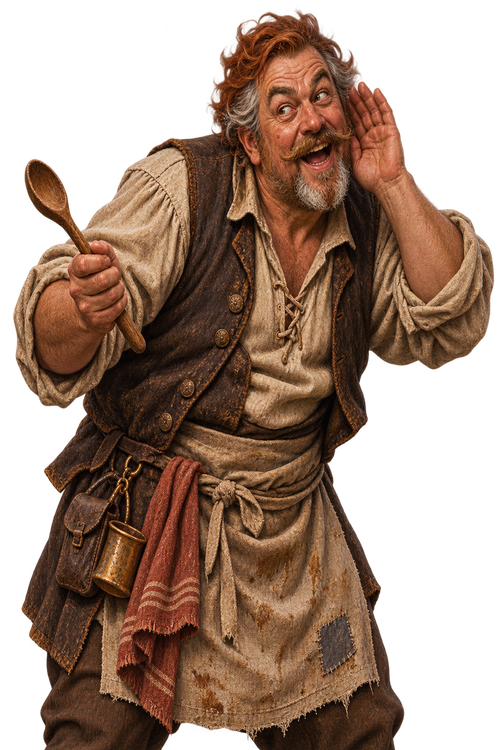
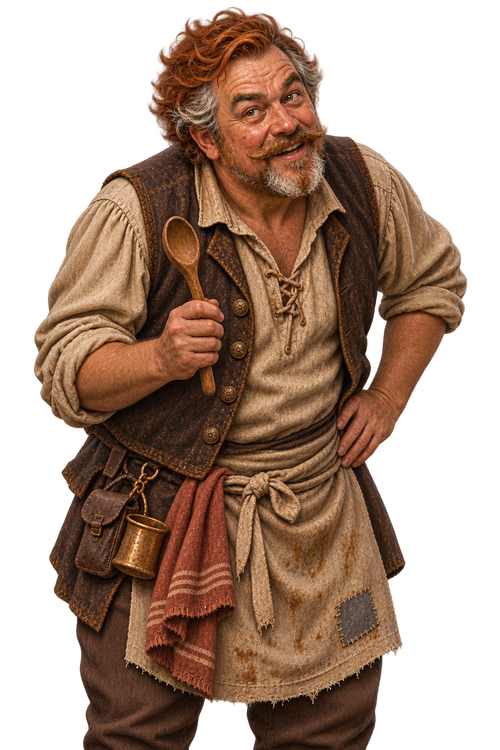
Fix black screen: Sir Galen's sprite/portrait paths back to sir_galen_thorne; new Harlan, Ines, Oriel portraits
Claude-Session: https://claude.ai/code/session_014Hg99mA8mRU3gu7WJJwuAo

diff --git a/js/data/b3.js b/js/data/b3.js
@@ -826,8 +826,8 @@ export default {
     },
     {
       id: 'galen_thorne', name: 'Sir Galen Thorne', role: 'RETIRED KNIGHT',
-      sprite: 'assets/images/galen_thorne_overhead.png',
-      portrait: 'assets/images/galen_thorne.png',
+      sprite: 'assets/images/sir_galen_thorne_overhead.png',
+      portrait: 'assets/images/sir_galen_thorne.png',
       speed: 45, startsHome: true,
       home: { door: { x: 1990, y: 615 }, interior: 'assets/images/home_interior.jpg' },
       routine: [

diff --git a/CLAUDE.md b/CLAUDE.md
@@ -1906,4 +1906,6 @@ Danny reworked Mirelle's `vegetable_delivery` quest. **This supersedes the older
 - **Voices** added to `audio.DIALOGUE_SFX` from the existing pool (Pip gets the Bramblekin cackle).
 - Verified in headless Chrome against the real game: Harlan takes Mirelle's crate (+12), Edmund settles the counting house, Orris (with `orrisDeparted`) runs weapon -> fang/rock -> Do it, the rock line and Go back work, Nkemi's Buy grid opens; no console errors beyond the favicon.
 - **New B3 art + portraits (2026-11-05, round 2):** Danny re-rendered `B3_Background.jpg` (same streets and buildings, no shift; yards are now dirt full of carts, stalls and crates) and replaced 15 of the 18 portraits (all but Cuthbert, Edmund, Tavita; Durgan is now stone-skinned Cairnfolk, Nkemi a Black woman in purple). Collision = the random forest on the new art INTERSECTED with the previous street network dilated one cell, so yards stay blocked; the SE cul-de-sac lane re-carved where it really is (x1840-1912, y1935-2310); props on the square's edges stamped solid (barrels/stall/posts at x790-885 west, a post by the tavern steps, one at 1470,1100). 521 rects. B3's left band is now y1384-1531 (B2's right exit `toBand` updated). Doors re-checked (Nkemi 400,1350, Wendell 2195,1360, Galen 1990,615, Oriel 1875,2100 moved; the rest unchanged), 17 chimney plumes re-placed on the new chimneys, Linh/Rowena's square spot moved to (1400,1000). Background recompressed q92 4:4:4 (15MB -> 7.3MB; denser art, bigger than the other scenes). Verified: `_verify_b3_new.mjs` and `_verify_b3_npcs.mjs` ALL OK (every NPC cycles, max still 8.1s), browser run clean.
+- **Boot-breaking slip fixed (2026-11-05):** regenerating the npc list for the new art rewrote Sir Galen's paths back to `galen_thorne*.png` (the generator built file names from the npc id), so `loadImages` rejected on a missing file and the game booted to a black screen with "Failed to load assets/images/galen_thorne_overhead.png". Paths fixed to `sir_galen_thorne*`; the generator now maps id -> file name. **Before any push, run `node _verify_assets.mjs`** (gitignored, repo root): it lists every `assets/...png|jpg|mp3` referenced in `js/data/*.js`, `main.js` and `audio.js` that doesn't exist (the 5 `*_walkable*` guide images it reports are comment-only and expected). A single missing preloaded image blanks the whole game.
+- Harlan's, Inés's and Oriel's portraits were replaced again later the same day (Oriel's is now 500x1071; the dialog shows its top 500px like any tall portrait).
 
